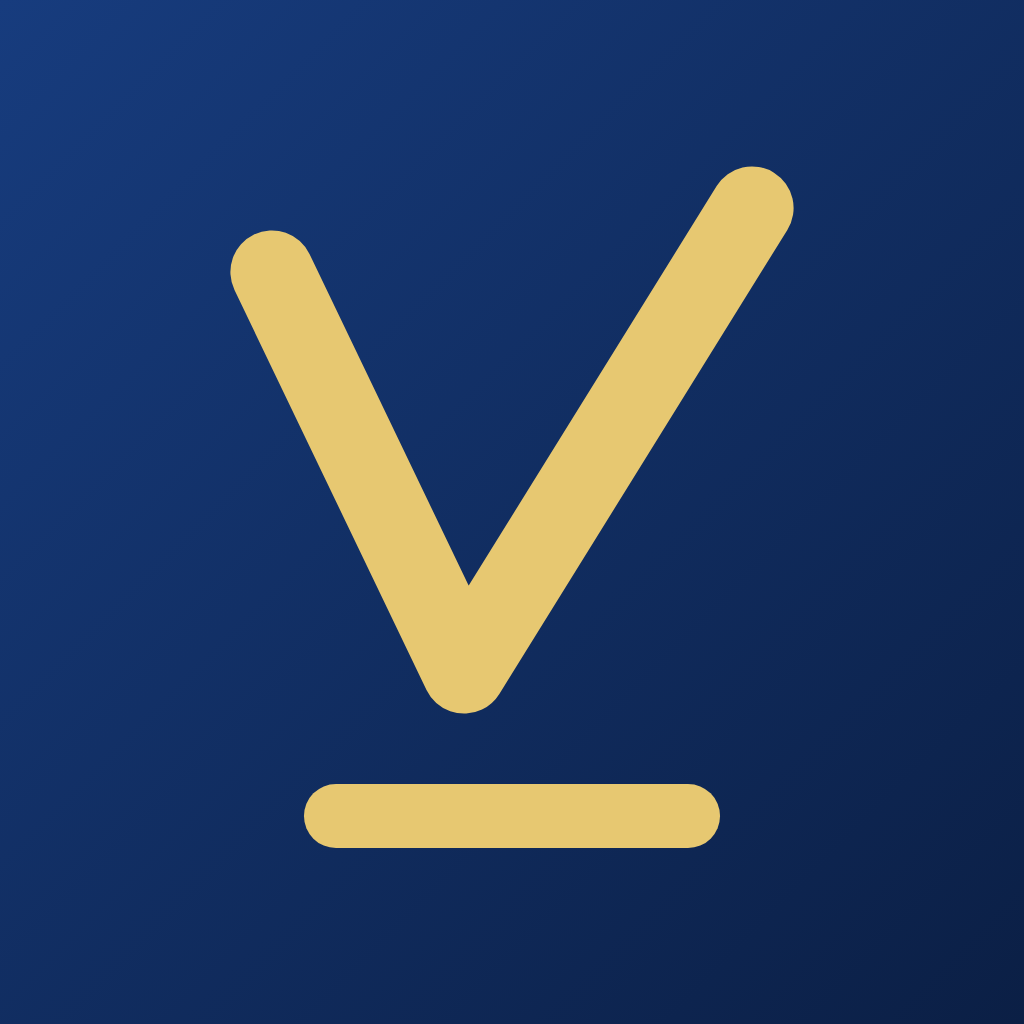
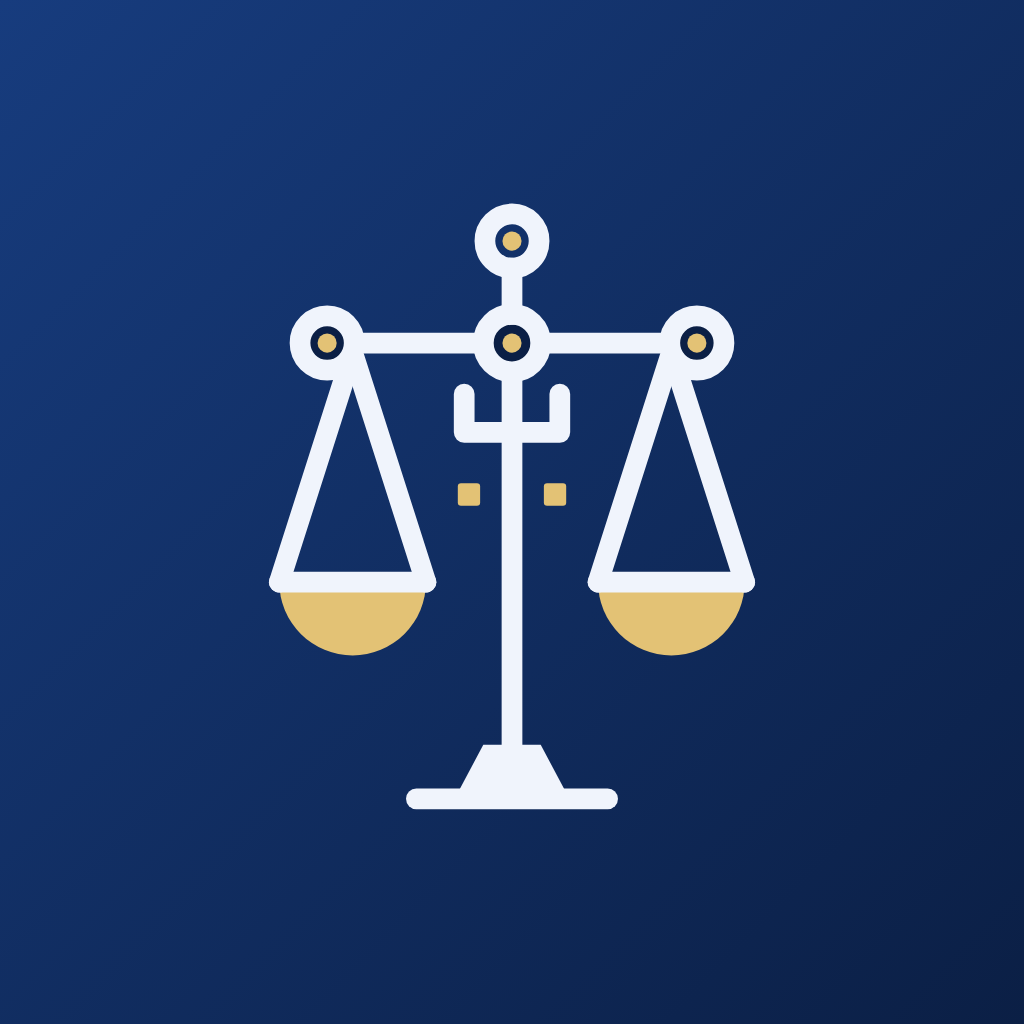
Uygulamanın kendi logosunu geri getir ve web'e taşı
Kullanıcı: "uygulamaya girerkenki logo olsun, uygulamadaki logomuz güzel".
Haklı — ben boşuna değiştirmişim, geri alındı.

VekilLogo.tsx ve çağıranlar 9b5ca61'deki hâline döndürüldü. Terazi
amblemi giriş/açılış ekranlarında yine eskisi gibi.

YANILDIĞIM YERİ YAZIYORUM. "Bu amblem küçülmüyor" demiştim; ölçünce
sebebin ŞEKİL DEĞİL RENK olduğu çıktı. Eski sürümde çizgi rengi lacivert
SABİTTİ; lacivert bir kutuya konunca zeminle aynı renge düşüp
kayboluyordu. Çizgi rengi parametreye çevrilip koyu kutuda açık ton
verilince amblem 34px'te rahat okunuyor (20/24/34/48/96/160 px'te, açık
ve koyu zeminde ekran görüntüsüyle bakıldı). Tanıtım sayfasının düz "V"
kutusu kullanmasının sebebi de buymuş.

scripts/amblem.mjs artık gerçek terazi geometrisini taşıyor ve çizgi
rengini dışarıdan alıyor. Geometri VekilLogo.tsx ile birebir aynı olmak
zorunda; ikisi ayrışırsa marka yine ikiye bölünür, yorumda yazılı.

KÜÇÜK BOY SÜRÜMÜ (scripts/amblem.mjs > kucuk). 16-20px'te halka
içlerindeki altın noktalar, iki küçük kare ve kirişin altındaki köşeli
parça birbirine giriyor. Favicon zaten hep o boyutta görünüyor. Bu sürüm
o üç ayrıntıyı düşürüp iskeleti bırakıyor ve çizgileri kalınlaştırıyor;
16/20/24'te yan yana karşılaştırıldı, fark açık. Bu markanın ikiye
ayrılması değil: köklü markaların çoğu faviconda sadeleştirilmiş sürüm
kullanır. Tam amblem her yerde, sade sürüm yalnız en küçük yerde.

Üretilen varlıklar (hepsi tek kaynaktan):
[…]

Changed region(s): [[0.2188, 0.1562, 0.7812, 0.8438]]

diff --git a/docs/index.html b/docs/index.html
@@ -10,7 +10,7 @@
      dosyasına bağlıydı; o dosya eski terazi amblemiydi ve 16px'te
      tanınmıyordu. SVG her boyutta keskin; .ico eski tarayıcılar için
      yedek olarak duruyor. -->
-<link rel="icon" type="image/svg+xml" href="amblem.svg">
+<link rel="icon" type="image/svg+xml" href="amblem-kucuk.svg">
 <link rel="alternate icon" href="app/favicon.ico">
 <link rel="apple-touch-icon" href="app/favicon.ico">
 <meta property="og:title" content="Vekil Pro — avukatın büro ve araştırma asistanı">
@@ -96,10 +96,12 @@ header{position:sticky; top:0; z-index:50; backdrop-filter:blur(12px);
   border-bottom:1px solid var(--cizgi)}
 .ust{display:flex; align-items:center; justify-content:space-between; height:68px; gap:16px}
 .marka{display:flex; align-items:center; gap:10px; text-decoration:none; font-weight:800; font-size:19px; letter-spacing:-.3px}
-/* AMBLEM. Burada Playfair fontuyla yazılmış düz bir "V" kutusu duruyordu —
-   yani tanıtım sayfası uygulamanınkinden BAŞKA bir marka gösteriyordu.
-   Sebep, eski uygulama ambleminin (ince çizgili terazi) bu boyutta
-   okunmamasıydı. Yeni amblem 20px'te bile okunuyor; ikisi artık aynı.
+/* AMBLEM — UYGULAMANIN KENDİ LOGOSU.
+   Burada Playfair fontuyla yazılmış düz bir "V" kutusu duruyordu; yani
+   tanıtım sayfası uygulamanınkinden BAŞKA bir marka gösteriyordu. Sebep,
+   uygulama ambleminin çizgi renginin lacivert SABİT olması ve koyu kutuda
+   kaybolmasıydı — şeklin kendisi değil. Renk parametreye çevrilince amblem
+   34px'te rahat okunuyor (20/24/34/48/96/160'ta bakıldı). Artık ikisi aynı.
    Şekil scripts/amblem.mjs ile birebir aynı olmalı. */
 .marka .m{width:34px;height:34px;flex:none;display:block}
 nav{display:flex; align-items:center; gap:28px}
@@ -415,7 +417,7 @@ footer{border-top:1px solid var(--cizgi);padding:44px 0 56px;margin-top:40px}
 
 <header>
   <div class="sar ust">
-    <a class="marka" href="#"><svg class="m" viewBox="0 0 64 64" aria-hidden="true"><defs><linearGradient id="vkm" x1="0" y1="0" x2="1" y2="1"><stop offset="0" stop-color="#173C7E"/><stop offset="1" stop-color="#0B1F45"/></linearGradient></defs><rect width="64" height="64" rx="15" fill="url(#vkm)"/><g fill="none" stroke="#E7C871" stroke-width="5.2" stroke-linecap="round" stroke-linejoin="round"><path d="M17 17 L29 42 L47 13"/></g><line x1="21" y1="51" x2="43" y2="51" stroke="#E7C871" stroke-width="4" stroke-linecap="round"/></svg>Vekil&nbsp;Pro</a>
+    <a class="marka" href="#"><svg class="m" viewBox="0 0 512 512" role="img" aria-label="Vekil Pro"> <defs><linearGradient id="vkm" x1="0" y1="0" x2="1" y2="1">  <stop offset="0" stop-color="#173C7E"/><stop offset="1" stop-color="#0B1F45"/> </linearGradient></defs> <rect width="512" height="512" rx="96" fill="url(#vkm)"/> <g transform="translate(256 256) scale(0.796875) translate(-256 -256)">   <path d="M110 300 A46 46 0 0 0 202 300 Z" fill="#E3C275"/> <path d="M310 300 A46 46 0 0 0 402 300 Z" fill="#E3C275"/> <g fill="none" stroke="#F0F4FC" stroke-width="13" stroke-linecap="round" stroke-linejoin="round">  <line x1="140" y1="150" x2="372" y2="150"/>  <line x1="256" y1="168" x2="256" y2="402"/>  <line x1="156" y1="156" x2="110" y2="300"/>  <line x1="156" y1="156" x2="202" y2="300"/>  <line x1="356" y1="156" x2="310" y2="300"/>  <line x1="356" y1="156" x2="402" y2="300"/>  <line x1="110" y1="300" x2="202" y2="300"/>  <line x1="310" y1="300" x2="402" y2="300"/>  <line x1="196" y1="436" x2="316" y2="436"/>  <path d="M226 182 L226 206 L286 206 L286 182"/> </g> <path d="M238 402 L274 402 L292 436 L220 436 Z" fill="#F0F4FC"/> <circle cx="256" cy="86" r="17" fill="none" stroke="#F0F4FC" stroke-width="13"/> <circle cx="256" cy="86" r="6" fill="#E3C275"/> <circle cx="256" cy="150" r="18" fill="#0B1F45" stroke="#F0F4FC" stroke-width="13"/> <circle cx="256" cy="150" r="6" fill="#E3C275"/> <circle cx="140" cy="150" r="17" fill="#0B1F45" stroke="#F0F4FC" stroke-width="13"/> <circle cx="140" cy="150" r="6" fill="#E3C275"/> <circle cx="372" cy="150" r="17" fill="#0B1F45" stroke="#F0F4FC" stroke-width="13"/> <circle cx="372" cy="150" r="6" fill="#E3C275"/> <line x1="256" y1="103" x2="256" y2="132" stroke="#F0F4FC" stroke-width="13" stroke-linecap="round"/> <rect x="222" y="238" width="14" height="14" rx="2" fill="#E3C275"/> <rect x="276" y="238" width="14" height="14" rx="2" fill="#E3C275"/> </g></svg>Vekil&nbsp;Pro</a>
     <nav>
       <a href="#ozellikler">Özellikler</a>
       <a href="#nasil">Nasıl çalışır</a>
@@ -817,7 +819,7 @@ footer{border-top:1px solid var(--cizgi);padding:44px 0 56px;margin-top:40px}
   <div class="sar">
     <div class="alt">
       <div style="max-width:300px">
-        <a class="marka" href="#" style="font-size:18px"><svg class="m" viewBox="0 0 64 64" aria-hidden="true"><defs><linearGradient id="vkm2" x1="0" y1="0" x2="1" y2="1"><stop offset="0" stop-color="#173C7E"/><stop offset="1" stop-color="#0B1F45"/></linearGradient></defs><rect width="64" height="64" rx="15" fill="url(#vkm2)"/><g fill="none" stroke="#E7C871" stroke-width="5.2" stroke-linecap="round" stroke-linejoin="round"><path d="M17 17 L29 42 L47 13"/></g><line x1="21" y1="51" x2="43" y2="51" stroke="#E7C871" stroke-width="4" stroke-linecap="round"/></svg>Vekil&nbsp;Pro</a>
+        <a class="marka" href="#" style="font-size:18px"><svg class="m" viewBox="0 0 512 512" role="img" aria-label="Vekil Pro"> <defs><linearGradient id="vkm2" x1="0" y1="0" x2="1" y2="1">  <stop offset="0" stop-color="#173C7E"/><stop offset="1" stop-color="#0B1F45"/> </linearGradient></defs> <rect width="512" height="512" rx="96" fill="url(#vkm2)"/> <g transform="translate(256 256) scale(0.796875) translate(-256 -256)">   <path d="M110 300 A46 46 0 0 0 202 300 Z" fill="#E3C275"/> <path d="M310 300 A46 46 0 0 0 402 300 Z" fill="#E3C275"/> <g fill="none" stroke="#F0F4FC" stroke-width="13" stroke-linecap="round" stroke-linejoin="round">  <line x1="140" y1="150" x2="372" y2="150"/>  <line x1="256" y1="168" x2="256" y2="402"/>  <line x1="156" y1="156" x2="110" y2="300"/>  <line x1="156" y1="156" x2="202" y2="300"/>  <line x1="356" y1="156" x2="310" y2="300"/>  <line x1="356" y1="156" x2="402" y2="300"/>  <line x1="110" y1="300" x2="202" y2="300"/>  <line x1="310" y1="300" x2="402" y2="300"/>  <line x1="196" y1="436" x2="316" y2="436"/>  <path d="M226 182 L226 206 L286 206 L286 182"/> </g> <path d="M238 402 L274 402 L292 436 L220 436 Z" fill="#F0F4FC"/> <circle cx="256" cy="86" r="17" fill="none" stroke="#F0F4FC" stroke-width="13"/> <circle cx="256" cy="86" r="6" fill="#E3C275"/> <circle cx="256" cy="150" r="18" fill="#0B1F45" stroke="#F0F4FC" stroke-width="13"/> <circle cx="256" cy="150" r="6" fill="#E3C275"/> <circle cx="140" cy="150" r="17" fill="#0B1F45" stroke="#F0F4FC" stroke-width="13"/> <circle cx="140" cy="150" r="6" fill="#E3C275"/> <circle cx="372" cy="150" r="17" fill="#0B1F45" stroke="#F0F4FC" stroke-width="13"/> <circle cx="372" cy="150" r="6" fill="#E3C275"/> <line x1="256" y1="103" x2="256" y2="132" stroke="#F0F4FC" stroke-width="13" stroke-linecap="round"/> <rect x="222" y="238" width="14" height="14" rx="2" fill="#E3C275"/> <rect x="276" y="238" width="14" height="14" rx="2" fill="#E3C275"/> </g></svg>Vekil&nbsp;Pro</a>
         <p style="color:var(--metin-3);font-size:14px;margin-top:12px">Avukatlar için dava, duruşma ve araştırma asistanı. Türkiye'de geliştirildi.</p>
       </div>
       <div>

diff --git a/src/components/ui/VekilLogo.tsx b/src/components/ui/VekilLogo.tsx
@@ -1,73 +1,54 @@
 import React from 'react';
-import Svg, { Defs, LinearGradient, Line, Path, Rect, Stop } from 'react-native-svg';
+import Svg, { Circle, G, Line, Path, Rect } from 'react-native-svg';
 
-const LACIVERT = '#173C7E';
-const LACIVERT_KOYU = '#0B1F45';
-const ALTIN = '#E7C871';
+const NAVY = '#1C3A5E';
+const GOLD = '#C6A24A';
 
 interface VekilLogoProps {
   size?: number;
-  /**
-   * KULLANILMIYOR — eski terazi amblemindeki halka içlerini zemine boyamak
-   * içindi. Yeni amblemde halka yok. Çağıranları kırmamak için kabul
-   * ediliyor; yeni kullanımlarda geçirmeyin.
-   * @deprecated
-   */
+  /** Fill color for the node ring centers — match the surface behind the logo. */
   nodeFill?: string;
-  /** Yuvarlak köşeli lacivert kutu çizilsin mi (varsayılan: evet). */
-  kutu?: boolean;
 }
 
 /**
- * VEKİL PRO AMBLEMİ.
- *
- * ÖNCEKİ AMBLEM NEDEN DEĞİŞTİ. Burada ince çizgili bir "teknolojik terazi"
- * vardı: 13 birim kalınlığında ~20 çizgi ve 8 daire. İki sorunu vardı ve
- * ikisi de ölçülebilirdi:
- *   • KÜÇÜLMÜYORDU. 34px'lik başlık ambleminde çizgiler birbirine giriyor,
- *     faviconda tanınmaz hâle geliyordu. Tanıtım sayfasının bu amblemi
- *     kullanmayıp düz bir "V" kutusu koymasının sebebi buydu — yani marka
- *     web'de ve uygulamada FARKLI görünüyordu.
- *   • KOYU TEMADA KAYBOLUYORDU. Çizgi rengi lacivert sabitti; koyu zeminde
- *     zeminle aynı renge düşüyordu.
- *
- * YENİ AMBLEM — "V + onay". Dört aday çizilip 20/24/34/48/96 px'te, açık ve
- * koyu temada gerçek tarayıcıda karşılaştırıldı.
- *   • "V", Vekil'in baş harfi.
- *   • Sağ kol sol koldan YÜKSEK bitiyor; şekil aynı anda bir onay
- *     işaretidir. Ürünün tek iddiası ("verdiğimiz her künye denetlenir")
- *     ile amblem aynı şeyi söylüyor.
- *   • Altındaki kısa kiriş terazi tabanını andırır ve şekli yere basar.
- * Üç çizgi: 20px'te bile okunur; tek renk olduğu için favicon, baskı ve tek
- * renkli Android ikonunda da çalışır.
- *
- * TEK KAYNAK: scripts/amblem.mjs. Oradaki koordinatlarla BİREBİR aynı
- * olmalı — web, favicon ve mağaza ikonları oradan üretiliyor. Birini
- * değiştirirken diğerini de değiştirin, yoksa marka yine ikiye ayrılır.
+ * The Vekil "tech scales of justice" mark as a true vector — crisp at any
+ * size (no pixelation). Reused on the login/splash and anywhere the brand
+ * emblem is shown.
  */
-export function VekilLogo({ size = 120, kutu = true }: VekilLogoProps) {
+export function VekilLogo({ size = 120, nodeFill = '#FFFFFF' }: VekilLogoProps) {
   return (
-    <Svg width={size} height={size} viewBox="0 0 64 64">
-      {kutu && (
-        <>
-          <Defs>
-            <LinearGradient id="vekilKutu" x1="0" y1="0" x2="1" y2="1">
-              <Stop offset="0" stopColor={LACIVERT} />
-              <Stop offset="1" stopColor={LACIVERT_KOYU} />
-            </LinearGradient>
-          </Defs>
-          <Rect width={64} height={64} rx={15} fill="url(#vekilKutu)" />
-        </>
-      )}
-      <Path
-        d="M17 17 L29 42 L47 13"
-        fill="none"
-        stroke={ALTIN}
-        strokeWidth={5.2}
-        strokeLinecap="round"
-        strokeLinejoin="round"
-      />
-      <Line x1={21} y1={51} x2={43} y2={51} stroke={ALTIN} strokeWidth={4} strokeLinecap="round" />
+    <Svg width={size} height={size} viewBox="0 0 512 512">
+      {/* gold pan bowls */}
+      <Path d="M110 300 A46 46 0 0 0 202 300 Z" fill={GOLD} />
+      <Path d="M310 300 A46 46 0 0 0 402 300 Z" fill={GOLD} />
+
+      <G fill="none" stroke={NAVY} strokeWidth={13} strokeLinecap="round" strokeLinejoin="round">
+        <Line x1="140" y1="150" x2="372" y2="150" />
+        <Line x1="256" y1="168" x2="256" y2="402" />
+        <Line x1="156" y1="156" x2="110" y2="300" />
+        <Line x1="156" y1="156" x2="202" y2="300" />
+        <Line x1="356" y1="156" x2="310" y2="300" />
+        <Line x1="356" y1="156" x2="402" y2="300" />
+        <Line x1="110" y1="300" x2="202" y2="300" />
+        <Line x1="310" y1="300" x2="402" y2="300" />
+        <Line x1="196" y1="436" x2="316" y2="436" />
+        <Path d="M226 182 L226 206 L286 206 L286 182" />
+      </G>
+
+      <Path d="M238 402 L274 402 L292 436 L220 436 Z" fill={NAVY} />
+
+      <Circle cx="256" cy="86" r="17" fill="none" stroke={NAVY} strokeWidth={13} />
+      <Circle cx="256" cy="86" r="6" fill={GOLD} />
+      <Circle cx="256" cy="150" r="18" fill={nodeFill} stroke={NAVY} strokeWidth={13} />
+      <Circle cx="256" cy="150" r="6" fill={GOLD} />
+      <Circle cx="140" cy="150" r="17" fill={nodeFill} stroke={NAVY} strokeWidth={13} />
+      <Circle cx="140" cy="150" r="6" fill={GOLD} />
+      <Circle cx="372" cy="150" r="17" fill={nodeFill} stroke={NAVY} strokeWidth={13} />
+      <Circle cx="372" cy="150" r="6" fill={GOLD} />
+      <Line x1="256" y1="103" x2="256" y2="132" stroke={NAVY} strokeWidth={13} strokeLinecap="round" />
+
+      <Rect x="222" y="238" width="14" height="14" rx="2" fill={GOLD} />
+      <Rect x="276" y="238" width="14" height="14" rx="2" fill={GOLD} />
     </Svg>
   );
 }

diff --git a/docs/og.html b/docs/og.html
@@ -19,7 +19,7 @@ h1 em{font-style:normal;color:#D9B356}
 .r{font-size:18px;font-weight:700;padding:11px 20px;border-radius:999px;background:rgba(234,240,251,.10);border:1px solid rgba(234,240,251,.20)}
 .r.altin{background:rgba(217,179,86,.16);border-color:rgba(217,179,86,.42);color:#EBCE85}
 </style></head><body>
-<div class="ust"><svg class="m" viewBox="0 0 64 64"><defs><linearGradient id="og" x1="0" y1="0" x2="1" y2="1"><stop offset="0" stop-color="#173C7E"/><stop offset="1" stop-color="#0B1F45"/></linearGradient></defs><rect width="64" height="64" rx="15" fill="url(#og)"/><g fill="none" stroke="#E7C871" stroke-width="5.2" stroke-linecap="round" stroke-linejoin="round"><path d="M17 17 L29 42 L47 13"/></g><line x1="21" y1="51" x2="43" y2="51" stroke="#E7C871" stroke-width="4" stroke-linecap="round"/></svg><span class="ad">Vekil&nbsp;Pro</span></div>
+<div class="ust"><svg class="m" viewBox="0 0 512 512" role="img" aria-label="Vekil Pro"> <defs><linearGradient id="ogm" x1="0" y1="0" x2="1" y2="1">  <stop offset="0" stop-color="#173C7E"/><stop offset="1" stop-color="#0B1F45"/> </linearGradient></defs> <rect width="512" height="512" rx="96" fill="url(#ogm)"/> <g transform="translate(256 256) scale(0.796875) translate(-256 -256)">   <path d="M110 300 A46 46 0 0 0 202 300 Z" fill="#E3C275"/> <path d="M310 300 A46 46 0 0 0 402 300 Z" fill="#E3C275"/> <g fill="none" stroke="#F0F4FC" stroke-width="13" stroke-linecap="round" stroke-linejoin="round">  <line x1="140" y1="150" x2="372" y2="150"/>  <line x1="256" y1="168" x2="256" y2="402"/>  <line x1="156" y1="156" x2="110" y2="300"/>  <line x1="156" y1="156" x2="202" y2="300"/>  <line x1="356" y1="156" x2="310" y2="300"/>  <line x1="356" y1="156" x2="402" y2="300"/>  <line x1="110" y1="300" x2="202" y2="300"/>  <line x1="310" y1="300" x2="402" y2="300"/>  <line x1="196" y1="436" x2="316" y2="436"/>  <path d="M226 182 L226 206 L286 206 L286 182"/> </g> <path d="M238 402 L274 402 L292 436 L220 436 Z" fill="#F0F4FC"/> <circle cx="256" cy="86" r="17" fill="none" stroke="#F0F4FC" stroke-width="13"/> <circle cx="256" cy="86" r="6" fill="#E3C275"/> <circle cx="256" cy="150" r="18" fill="#0B1F45" stroke="#F0F4FC" stroke-width="13"/> <circle cx="256" cy="150" r="6" fill="#E3C275"/> <circle cx="140" cy="150" r="17" fill="#0B1F45" stroke="#F0F4FC" stroke-width="13"/> <circle cx="140" cy="150" r="6" fill="#E3C275"/> <circle cx="372" cy="150" r="17" fill="#0B1F45" stroke="#F0F4FC" stroke-width="13"/> <circle cx="372" cy="150" r="6" fill="#E3C275"/> <line x1="256" y1="103" x2="256" y2="132" stroke="#F0F4FC" stroke-width="13" stroke-linecap="round"/> <rect x="222" y="238" width="14" height="14" rx="2" fill="#E3C275"/> <rect x="276" y="238" width="14" height="14" rx="2" fill="#E3C275"/> </g></svg><span class="ad">Vekil&nbsp;Pro</span></div>
 <div>
   <h1>Uydurma karar numarası<br><em>dilekçenize girmesin</em></h1>
   <p class="alt">Yapay zekânın verdiği her kanun maddesi ve her Yargıtay karar numarası denetlenir: doğrulandı, havuzda yok ya da olamaz.</p>

diff --git a/app/(auth)/signup.tsx b/app/(auth)/signup.tsx
@@ -142,7 +142,7 @@ export default function SignupScreen() {
         <ScrollView contentContainerStyle={styles.content} keyboardShouldPersistTaps="handled">
           <WebKart>
           <View style={styles.brand}>
-            <VekilLogo size={72} />
+            <VekilLogo size={72} nodeFill={colors.bg} />
             <Text style={styles.brandName}>{t('app.name')}</Text>
           </View>
           <View style={styles.verifyIconWrap}>
@@ -170,7 +170,7 @@ export default function SignupScreen() {
         <ScrollView contentContainerStyle={styles.content} keyboardShouldPersistTaps="handled">
           <WebKart>
           <View style={styles.brand}>
-            <VekilLogo size={72} />
+            <VekilLogo size={72} nodeFill={colors.bg} />
             <Text style={styles.brandName}>{t('app.name')}</Text>
           </View>
 

diff --git a/app/(auth)/login.tsx b/app/(auth)/login.tsx
@@ -60,7 +60,7 @@ export default function LoginScreen() {
               şey yapmaz ve düzen aynen kalır (bkz. components/ui/WebKart). */}
           <WebKart>
           <View style={styles.brand}>
-            <VekilLogo size={132} />
+            <VekilLogo size={132} nodeFill={colors.bg} />
             <Text style={styles.brandName}>VEKİL</Text>
             <Text style={styles.brandSub}>AVUKAT YARDIMCI PROGRAMI</Text>
             <Text style={styles.brandSubGold}>AKILLI DAVA TAKİP SİSTEMİ</Text>

diff --git a/src/components/AppLock.tsx b/src/components/AppLock.tsx
@@ -82,7 +82,7 @@ export function AppLock() {
   // biometric prompt opens by itself; tapping the mark retries if canceled.
   return (
     <View style={[StyleSheet.absoluteFill, styles.container, { backgroundColor: colors.bg }]}>
-      <VekilLogo size={120} />
+      <VekilLogo size={120} nodeFill={colors.primary} />
       <Pressable
         onPress={authenticate}
         hitSlop={16}
